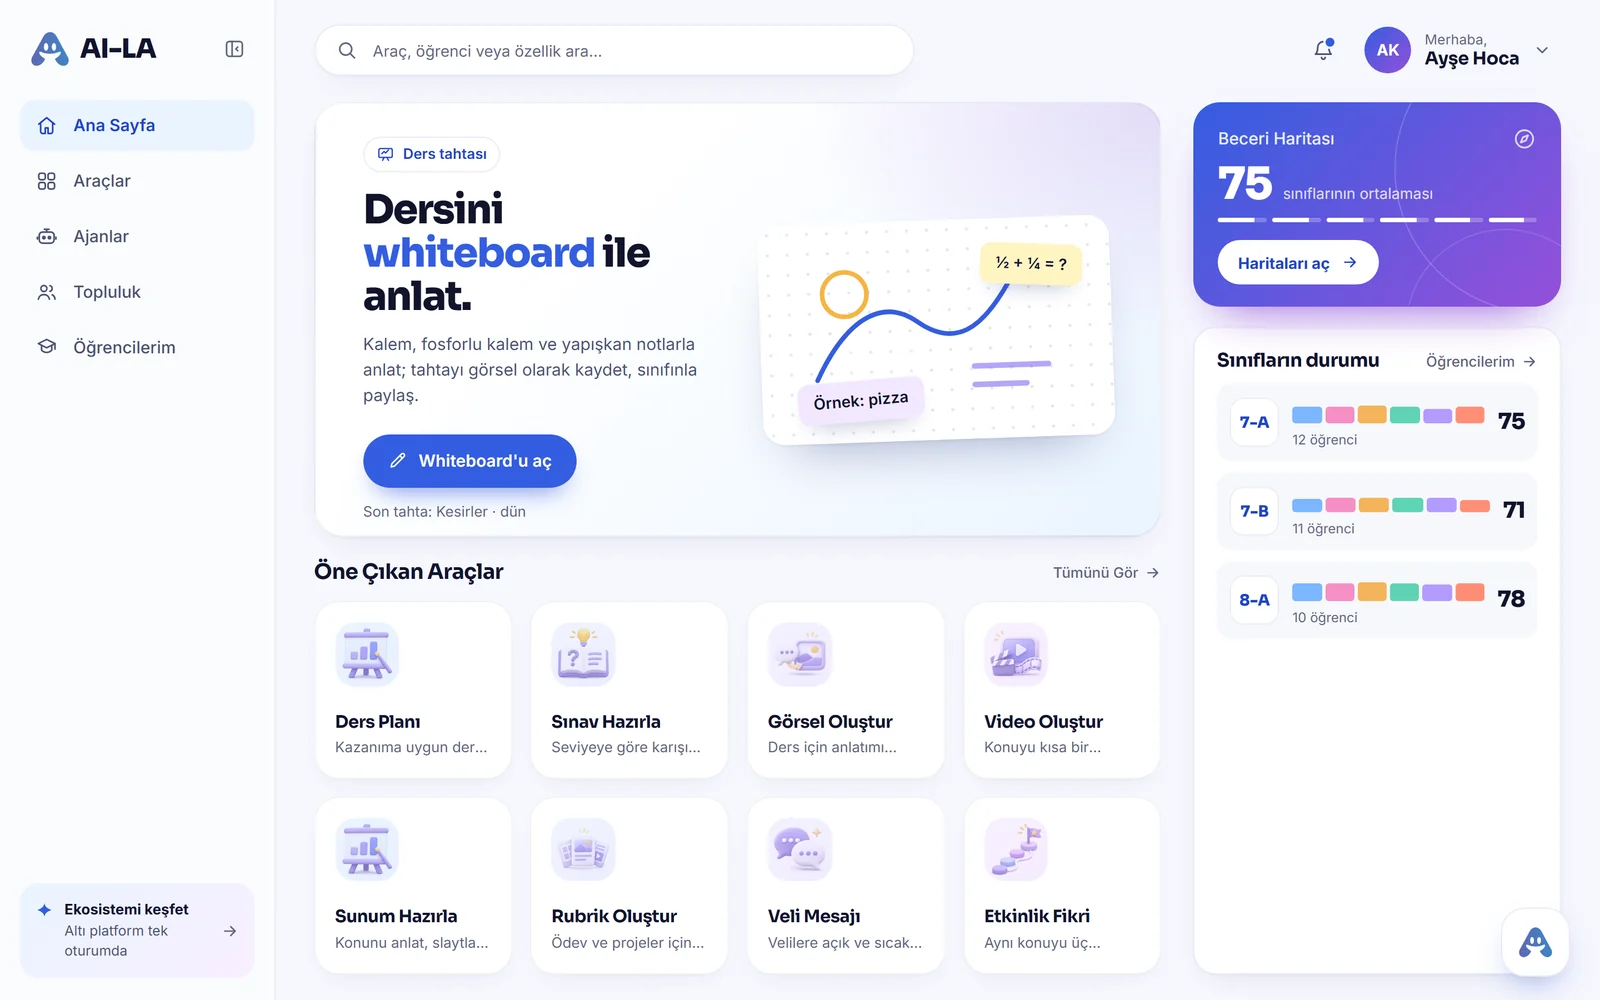
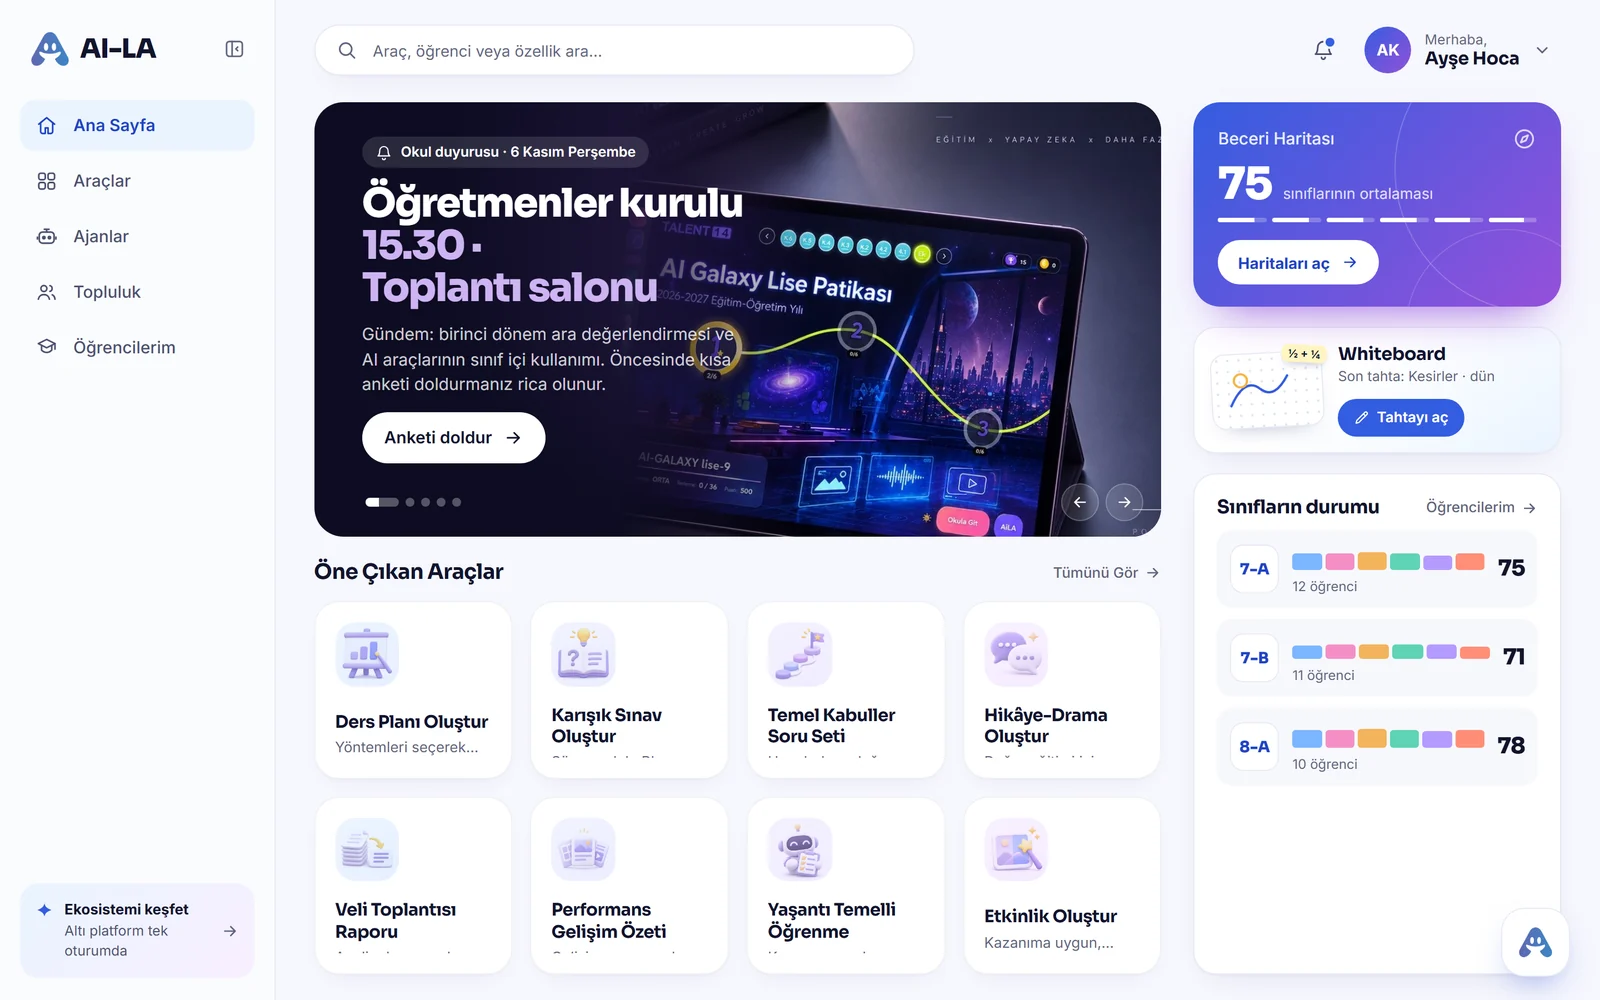
index_v2: öğretmen ekranı güncel ogretmen.html'den (duyuru karuseli, whiteboard kartı)

diff --git a/index_v2.html b/index_v2.html
@@ -323,7 +323,7 @@
             <li><span class="rl-icon"><svg class="icon" aria-hidden="true"><use href="#i-lightbulb" /></svg></span><div><h3>Ders planı ve sınav</h3><p>Kazanıma uygun plan, seviyeye göre karışık sınav ve rubrik dakikalar içinde.</p></div></li>
             <li><span class="rl-icon"><svg class="icon" aria-hidden="true"><use href="#i-chart" /></svg></span><div><h3>Sınıfların beceri haritası</h3><p>Her şubenin altı beceri alanındaki durumu tek bakışta.</p></div></li>
           </ul>
-          <figure class="rl-shot"><img src="assets/paneller/ogretmen.webp" width="1600" height="1000" decoding="async" alt="Öğretmen paneli: ders tahtası, ders planı ve sınav araçları, sınıfların beceri haritası durumu" /></figure>
+          <figure class="rl-shot"><img src="assets/paneller/ogretmen.webp" width="1600" height="1000" decoding="async" alt="Öğretmen paneli: okul duyurusu, öne çıkan araçlar, beceri haritası, whiteboard ve sınıfların durumu" /></figure>
         </div>
       </div>
       <div class="tabpanel rl-panel" role="tabpanel" id="panel-yonetici" aria-labelledby="tab-yonetici" tabindex="0" data-profile="Yönetici profili" hidden>
